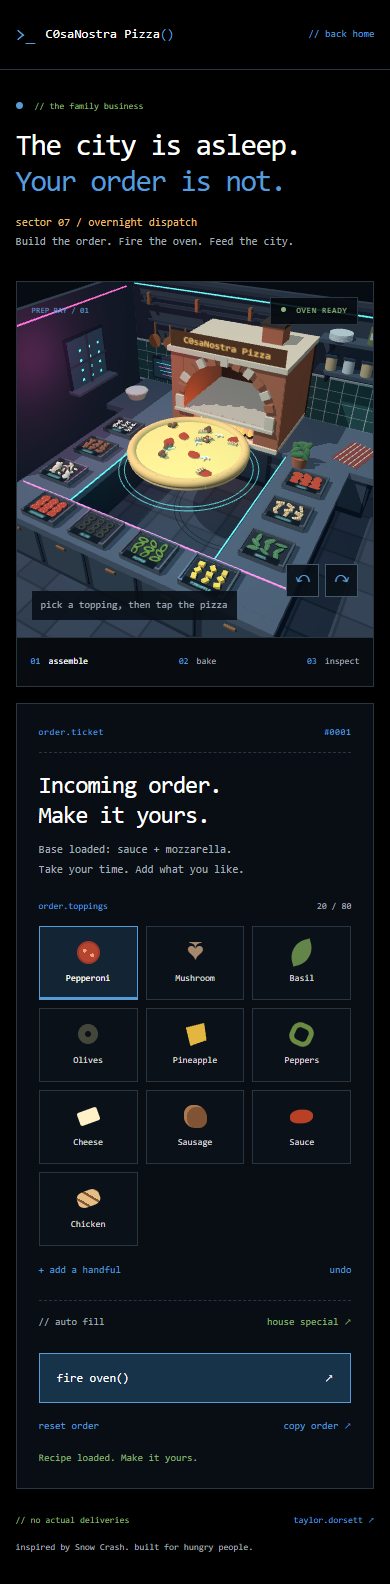
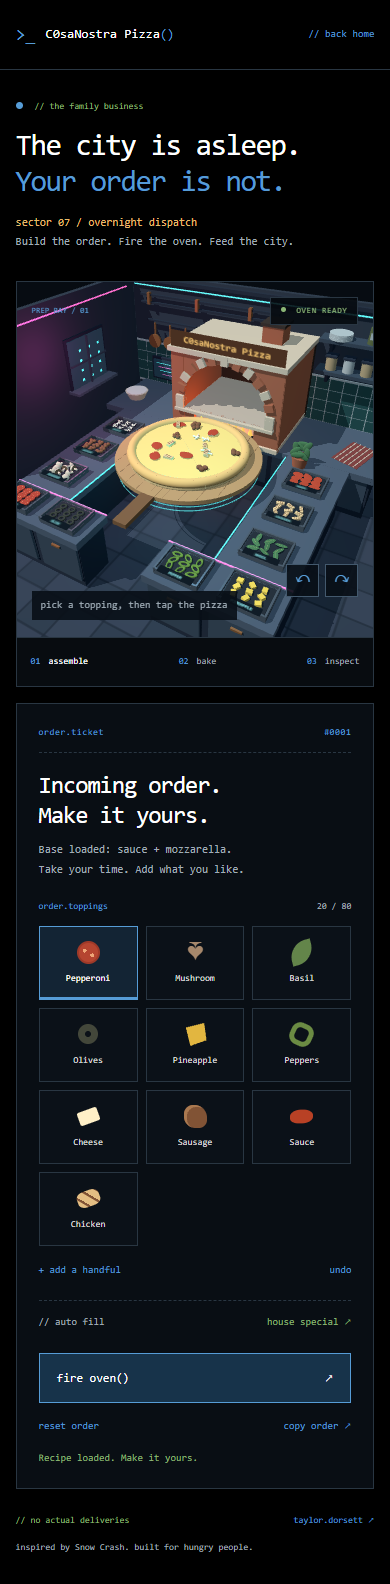
bring back the paddle

Changed region(s): [[0.0308, 0.2475, 0.7385, 0.4021]]

diff --git a/kitchen-room.js b/kitchen-room.js
@@ -56,9 +56,12 @@ export function createKitchenRoom(root) {
     box(2.4, 0.28, 7.5, stone, root, x, -0.4, 0.7);
     box(2.1, 1.85, 7, wood, root, x, -1.45, 0.7);
   }
-  box(10.4, 0.28, 1.5, stone, root, 0, -0.4, 4.1);
-  box(10, 1.85, 1.2, wood, root, 0, -1.45, 4.1);
-  for (const x of [-4, -2, 0, 2, 4]) {
+  // Leave a 2.4 unit entrance between the two front counter sections.
+  for (const x of [-3.2, 3.2]) {
+    box(4, 0.28, 1.5, stone, root, x, -0.4, 4.1);
+    box(3.8, 1.85, 1.2, wood, root, x, -1.45, 4.1);
+  }
+  for (const x of [-4.2, -2.2, 2.2, 4.2]) {
     box(1.7, 1.45, 0.07, oak, root, x, -1.35, 4.75);
     box(0.34, 0.07, 0.08, copper, root, x, -0.82, 4.81);
   }
@@ -129,7 +132,7 @@ export function createKitchenRoom(root) {
   box(13.4, 0.045, 0.06, cyan, root, 0, 4.45, -6.55);
   box(0.06, 0.045, 10, pink, root, -6.7, 4.45, -0.9);
   for (const x of [-2.78, 2.78]) box(0.035, 0.045, 6.9, cyan, root, x, -0.22, 0.7);
-  box(10, 0.045, 0.035, pink, root, 0, -0.22, 3.35);
+  for (const x of [-3.2, 3.2]) box(4, 0.045, 0.035, pink, root, x, -0.22, 3.35);
   for (const y of [3.7, 4.05]) box(7, 0.09, 0.12, wood, root, -2.8, y, -6.45);
   for (const x of [-5.8, -3.2, -0.6]) box(0.14, 0.55, 0.18, copper, root, x, 3.9, -6.4);
   const accent = new THREE.PointLight('#ee4eaa', 22, 12, 2);

diff --git a/kitchen.js b/kitchen.js
@@ -83,6 +83,15 @@ export function createKitchen(scene) {
   const fieldLight = new THREE.PointLight('#31dbe9', 8, 7, 2);
   fieldLight.position.set(0, 0.4, 1);
   root.add(fieldLight);
+  const paddleWood = material('#b88e59');
+  const paddleEdge = material('#79532f');
+  const peel = mesh(new THREE.CylinderGeometry(2.65, 2.65, 0.16, 80), paddleWood, carriage);
+  peel.position.y = -0.1;
+  box(0.48, 0.16, 2.1, paddleEdge, carriage, 0, -0.1, 3.1);
+  for (let i = 0; i < 9; i++) {
+    const x = -2 + i * 0.5;
+    box(0.012, 0.004, 2 * Math.sqrt(2.6 ** 2 - x * x), paddleEdge, carriage, x, -0.016, 0);
+  }
   const pizza = new THREE.Group();
   carriage.add(pizza);
   const slices = [];

diff --git a/oven-motion.js b/oven-motion.js
@@ -1,3 +1,4 @@
+// The clearance envelope includes the wooden paddle beneath the pizza.
 // These dimensions are shared by the oven model and its animation so the pizza
 // clears the opening and rests above the stone instead of passing through fire.
 export const ovenLayout = {
@@ -6,10 +7,10 @@ export const ovenLayout = {
   openingHalfWidth: 1.8,
   deckTop: 0.81,
   flameTop: 0.57,
-  pizzaRadius: 2.22,
-  pizzaBottom: -0.01,
+  pizzaRadius: 2.65,
+  pizzaBottom: -0.18,
   prepHeight: 0.65,
-  bakingHeight: 0.82,
+  bakingHeight: 0.93,
   bakingScale: 0.62
 };
 

diff --git a/ingredient-station.js b/ingredient-station.js
@@ -17,10 +17,10 @@ export function createIngredientStation(root, makeTopping) {
     ['sauce', 4, -1.4],
     ['chicken', 4, 0.45],
     ['basil', 4, 2.3],
-    ['pepperoni', -3, 4.1],
-    ['olive', -1, 4.1],
-    ['pepper', 1, 4.1],
-    ['pineapple', 3, 4.1]
+    ['pepperoni', -4.2, 4.1],
+    ['olive', -2.2, 4.1],
+    ['pepper', 2.2, 4.1],
+    ['pineapple', 4.2, 4.1]
   ];
   for (const [type, x, z] of trays) {
     const tray = new THREE.Group();
